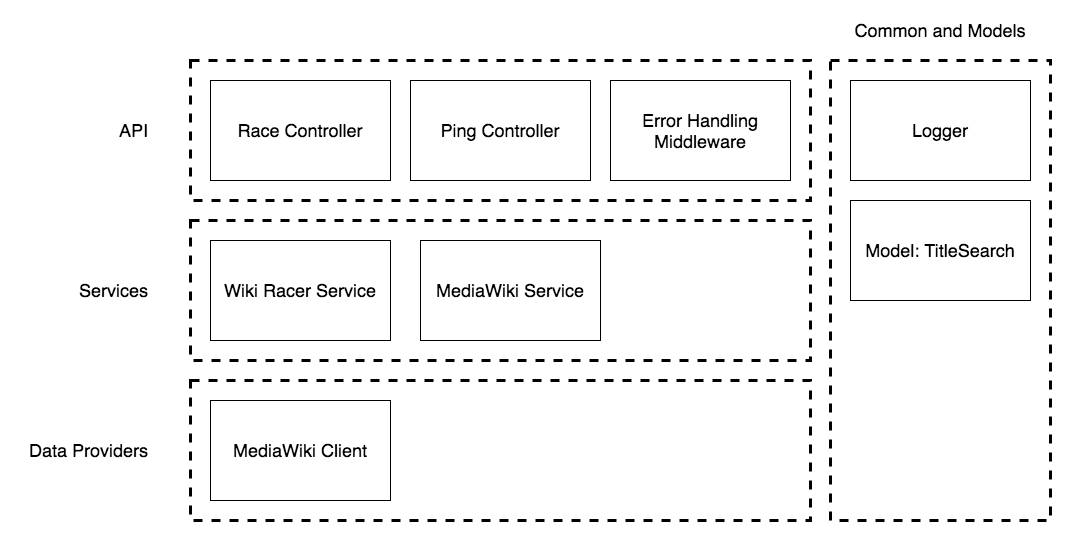
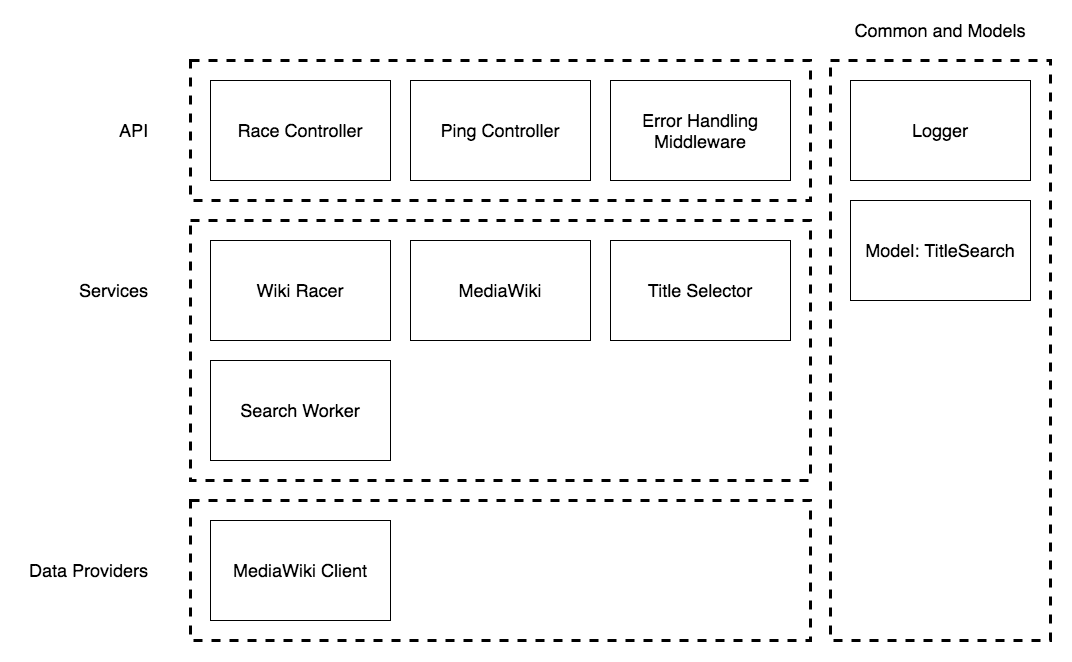
Refactoring and finalize docs

diff --git a/app/services/wiki-racer.js b/app/services/wiki-racer.js
@@ -3,54 +3,7 @@
 const config = require('config');
 const logger = require('../logger');
 const TitleSearch = require('../models/title-search');
-const mediawiki = require('./mediawiki');
-
-const _selectTitles = (titles, numToSelect) => {
-    if (titles.length === 0) {
-        return [];
-    }
-
-    if (titles.length <= numToSelect * 1.5) {
-        return titles.slice(0, numToSelect);
-    }
-
-    const selected = [];
-    while(selected.length < numToSelect) {
-        const index = Math.floor(Math.random() * Math.floor(titles.length - 1));
-        const title = titles[index];
-
-        selected.push(title);
-    }
-
-    return selected;
-};
-
-const _search = async (titleSearch, numToSelect) => {
-    const { title, end } = titleSearch;
-
-    try {
-        const start = new Date();
-        const isLinkedToend = await mediawiki.isLinked(title, end);
-
-        if (isLinkedToend) {
-            titleSearch.searchNext.push(titleSearch.end);
-            const end = new Date();
-            titleSearch.duration = end - start;
-
-            return titleSearch;
-        } else {
-            const titles = await mediawiki.getAllLinkedTitles(title);
-
-            titleSearch.searchNext = [..._selectTitles(titles, numToSelect)];
-            const end = new Date();
-            titleSearch.duration = end - start;
-
-            return titleSearch;
-        }    
-    } catch (err) {
-        logger.error(err);
-    }
-};
+const searchWorker = require('./search-worker');
 
 const _logSearchResult = (searchId, ts, numInQueue) => {
     let idStr;
@@ -97,7 +50,7 @@ const race = async (start, end) => {
     //       - We searched long enough and it is time to call it quit
     while(!lastTitle && queue.length && searchId < NUM_MAX_SEARCHES) {
         const batch = queue.splice(0, NUM_CONCURRENT_SEARCHES);
-        const promises = batch.map((ts) => _search(ts, NUM_CONCURRENT_SEARCHES));
+        const promises = batch.map((ts) => searchWorker.search(ts, NUM_CONCURRENT_SEARCHES));
         const results = await Promise.all(promises);
 
         results.forEach((ts) => {
@@ -127,9 +80,6 @@ const race = async (start, end) => {
 };
 
 module.exports = {
-    _selectTitles,
-    _search,
     _getJourney,
-
     race
 };

diff --git a/tests/app/services/wikiracer.test.js b/tests/app/services/wikiracer.test.js
@@ -8,49 +8,6 @@ const TitleSearch = require('../../../app/models/title-search');
 const racer = require('../../../app/services/wiki-racer');
 
 describe('racer', () => {
-    describe('_selectTitles', () => {
-        it('should return empty array given empty titles array', () => {
-            const selected = racer._selectTitles([], 10);
-            expect(selected.length).toEqual(0);
-        });
-
-        it('should first numToSelect elements of the titles array given number of titles is less than 1.5x of the number to numToSelect', () => {
-            const numToSelect = 10;
-            const numTitles = numToSelect * 1.2;
-            const titles = [];
-            for (let i = 0; i < numTitles; i++) {
-                titles.push(`title-${i}`);
-            }
-            const selected = racer._selectTitles(titles, numToSelect);
-            expect(selected.length).toEqual(numToSelect);
-            expect(selected).toEqual(titles.slice(0, numToSelect));
-        });
-
-        it('should first numToSelect elements of the titles array given number of titles is equal to 1.5x of the number to numToSelect', () => {
-            const numToSelect = 10;
-            const numTitles = numToSelect * 1.5;
-            const titles = [];
-            for (let i = 0; i < numTitles; i++) {
-                titles.push(`title-${i}`);
-            }
-            const selected = racer._selectTitles(titles, numToSelect);
-            expect(selected.length).toEqual(numToSelect);
-            expect(selected).toEqual(titles.slice(0, numToSelect));
-        });
-
-        it('should randomly pick a number of titles given title count is 1.5 larger than numToSelect', async () => {
-            const numToSelect = 10;
-            const numTitles = numToSelect * 1.5 + 1;
-            const titles = [];
-            for (let i = 0; i < numTitles; i++) {
-                titles.push(`title-${i}`);
-            }
-
-            const selected = racer._selectTitles(titles, 10);
-            expect(selected.length).toEqual(numToSelect);
-        });
-    });
-
     describe('_getJourney', () => {
         it('should return the path of the search with duration of each step', () => {
             const start = 'Giant sloth';

diff --git a/tests/app/services/title-selector.test.js b/tests/app/services/title-selector.test.js
@@ -1,0 +1,47 @@
+// Test target
+const titleSelector = require('../../../app/services/title-selector');
+
+describe('title-selector', () => {
+    describe('select', () => {
+        it('should return empty array given empty titles array', () => {
+            const selected = titleSelector.select([], 10);
+            expect(selected.length).toEqual(0);
+        });
+
+        it('should first numToSelect elements of the titles array given number of titles is less than 1.5x of the number to numToSelect', () => {
+            const numToSelect = 10;
+            const numTitles = numToSelect * 1.2;
+            const titles = [];
+            for (let i = 0; i < numTitles; i++) {
+                titles.push(`title-${i}`);
+            }
+            const selected = titleSelector.select(titles, numToSelect);
+            expect(selected.length).toEqual(numToSelect);
+            expect(selected).toEqual(titles.slice(0, numToSelect));
+        });
+
+        it('should first numToSelect elements of the titles array given number of titles is equal to 1.5x of the number to numToSelect', () => {
+            const numToSelect = 10;
+            const numTitles = numToSelect * 1.5;
+            const titles = [];
+            for (let i = 0; i < numTitles; i++) {
+                titles.push(`title-${i}`);
+            }
+            const selected = titleSelector.select(titles, numToSelect);
+            expect(selected.length).toEqual(numToSelect);
+            expect(selected).toEqual(titles.slice(0, numToSelect));
+        });
+
+        it('should randomly pick a number of titles given title count is 1.5 larger than numToSelect', async () => {
+            const numToSelect = 10;
+            const numTitles = numToSelect * 1.5 + 1;
+            const titles = [];
+            for (let i = 0; i < numTitles; i++) {
+                titles.push(`title-${i}`);
+            }
+
+            const selected = titleSelector.select(titles, 10);
+            expect(selected.length).toEqual(numToSelect);
+        });
+    });
+});

diff --git a/app/services/search-worker.js b/app/services/search-worker.js
@@ -1,0 +1,39 @@
+'use strict';
+
+const logger = require('../logger');
+const mediawiki = require('./mediawiki');
+const titleSelector = require('./title-selector');
+
+const search = async (titleSearch, numToSelect) => {
+    const { title, end } = titleSearch;
+
+    try {
+        const start = new Date();
+        const isLinkedToend = await mediawiki.isLinked(title, end);
+
+        if (isLinkedToend) {
+            titleSearch.searchNext.push(titleSearch.end);
+            const end = new Date();
+            titleSearch.duration = end - start;
+
+            return titleSearch;
+        } else {
+            const titles = await mediawiki.getAllLinkedTitles(title);
+
+            titleSearch.searchNext = [...titleSelector.select(titles, numToSelect)];
+            const end = new Date();
+            titleSearch.duration = end - start;
+
+            return titleSearch;
+        }
+    // TODO: move logging and try .. catch out of this
+    //       function and onto the consuming level.
+    } catch (err) {
+        
+        logger.error(err);
+    }
+};
+
+module.exports = {
+    search
+};

diff --git a/app/services/title-selector.js b/app/services/title-selector.js
@@ -1,0 +1,25 @@
+'use strict';
+
+const select = (titles, numToSelect) => {
+    if (titles.length === 0) {
+        return [];
+    }
+
+    if (titles.length <= numToSelect * 1.5) {
+        return titles.slice(0, numToSelect);
+    }
+
+    const selected = [];
+    while(selected.length < numToSelect) {
+        const index = Math.floor(Math.random() * Math.floor(titles.length - 1));
+        const title = titles[index];
+
+        selected.push(title);
+    }
+
+    return selected;
+};
+
+module.exports = {
+    select
+};

diff --git a/README.md b/README.md
@@ -114,13 +114,11 @@ Once the user submit a request, the race will kick off by having the wikirace mo
 
 ![Code flow 2](docs/wikiracer8000_codeflow2.png)
 
-Then launch a search worker to querying MediaWiki API for all linked titles to the starting title. Once we got the titles, the search worker will use the selection module to randomly pick a number of titles to search next and put them on the queue.
+The racer will then launch a search worker to query MediaWiki API for all linked titles to the starting title. Once we got the titles, the search worker will use the selection module to randomly pick a number of titles to search next and put them on the queue.
 
 ![Code flow 3](docs/wikiracer8000_codeflow3.png)
 
-The wikirace module will then keep taking a number of searches off the queue at a time and launch search workers to look for the end title.
-
-The race will stop on either one of the following conditions:
+The wikirace module will continue to searches of the queued titles at the configured parallelization level. The race will stop on either one of the following conditions:
 - We've done the race and are now at the last title before the end
 - There is no more queued searches (complete dead end everywhere)
 - We searched enough pages and it is time to call it quit.
@@ -302,14 +300,20 @@ Other than parallelizing the searches, I also experimented several approaches on
 ## Issues and Iteration 2
 
 ### Issues:
-- Application is not usable :(
+- Application is not usable on the sample query Tennessee -> Sloth :(
+- Search taking longer than expected. Usual response time is 1.5 minutes for 1000 title queries. Not an acceptable time for API responses.
 - It is a monolith!!
-- Search taking longer than expected. Usual response time is 1.5 minutes. Not acceptable for API responses.
 - Sometimes the application can go into infinite loop among several titles.
 - No authentication/throttling to for the api
 - No friendly UI :(
 
 ### Iteration 2:
+- Evolve architecture to split out API and racer+search workers.
+
+![Postman](docs/wikiracer8000_Iteration2.png)
+
+- Fix many edge cases.
+- Optimize selection criteris.
 - Swagger API docs
-- UI and API authentication/throttling
-- Split out race creation and actual racing.
+- API authentication/throttling
+- UI!! :)
